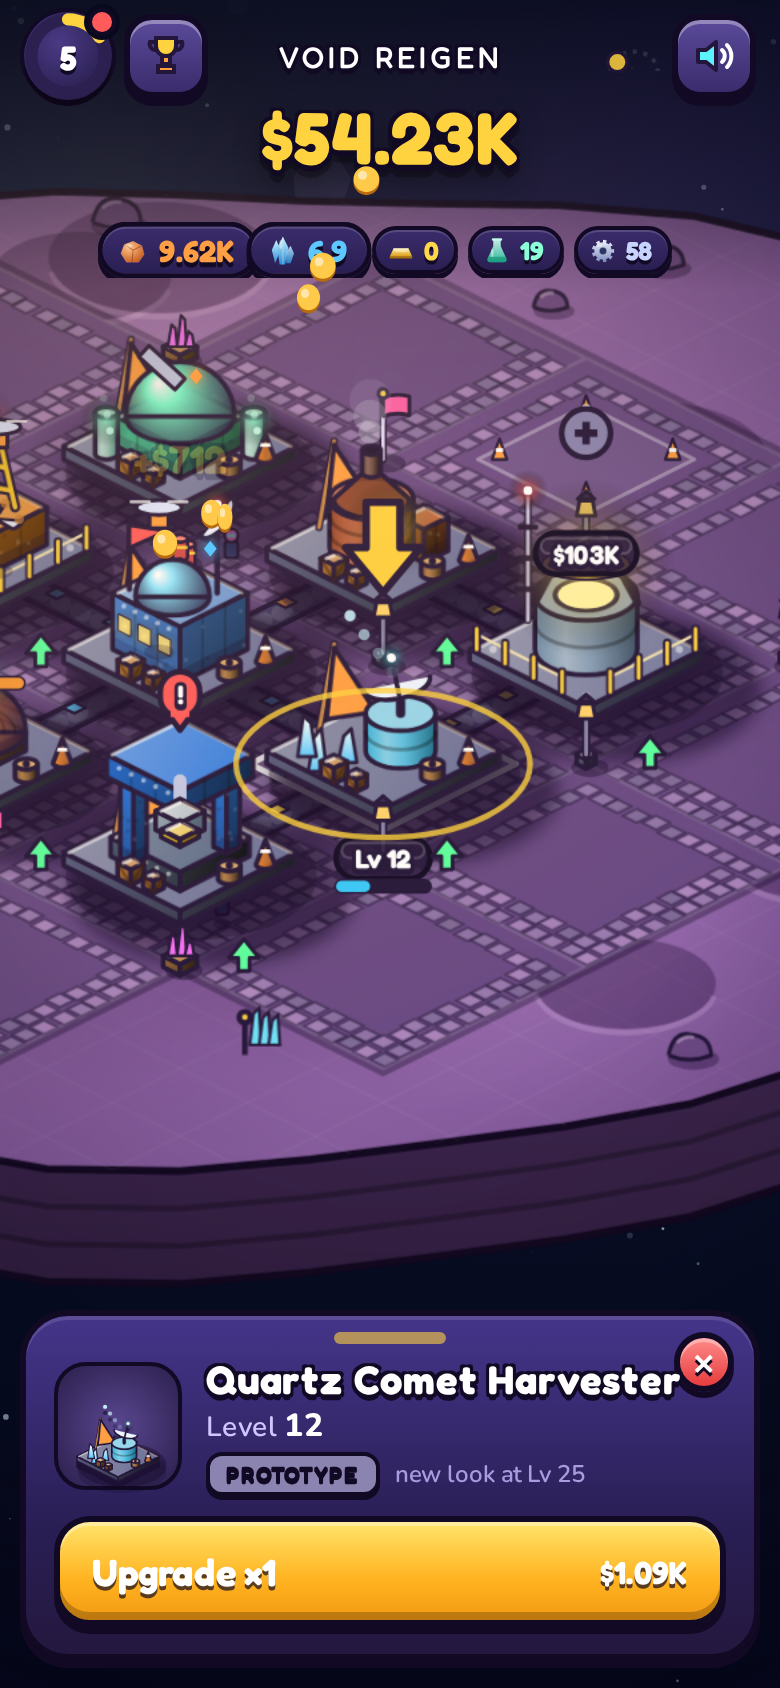
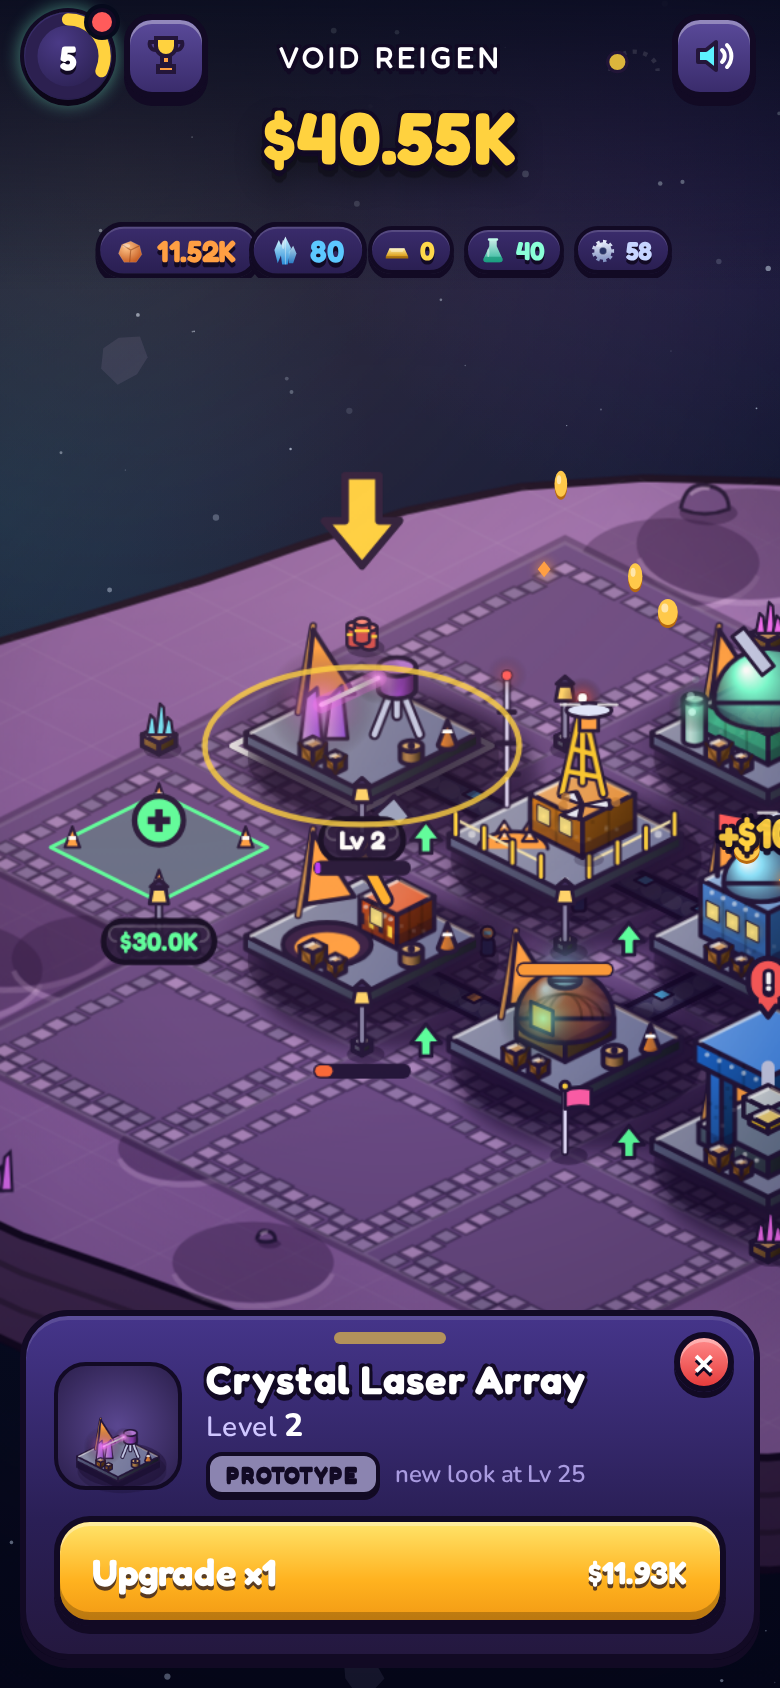
Pacing: actionable goals between Press Lv10 and $10M; goal-index migration v3

diff --git a/src/game/state.ts b/src/game/state.ts
@@ -34,7 +34,7 @@ export const fresh = (keep?: Partial<State>): State => ({
 export let S: State = fresh();
 export let clock = () => Date.now();
 export function setClock(f: () => number) { clock = f; }
-export function load() { try { const r = localStorage.getItem(KEY); if (r) { const o = JSON.parse(r); const f = fresh(); S = { ...f, ...o, res: { ...f.res, ...o.res }, made: { ...f.made, ...o.made }, fstock: { ...f.fstock, ...(o.fstock || {}) } }; if ((o.gv ?? 1) < 3) { const g = o.goal | 0; S.goal = g <= 13 ? g : g <= 16 ? g + 1 : g === 17 ? 20 : g <= 19 ? 21 : g === 20 ? 22 : g + 4; S.gv = 3; } if (!o.fstock && o.ships && Object.keys(o.ships).length) for (const r of FLEET_RES) { S.fstock[r] = S.res[r] * .5; S.res[r] *= .5; } if (!Array.isArray(S.skills)) S.skills = []; if (typeof S.xp !== 'number') S.xp = 0; while (S.mach.length < MACHINES.length) { S.mach.push(0); S.on.push(true); } while (S.w.length < MACHINES.length) S.w.push(50); while (S.mines.length < MINES.length) S.mines.push({ n: 0, p: 0, m: false, run: false }); } } catch { S = fresh(); } }
+export function load() { try { const r = localStorage.getItem(KEY); if (r) { const o = JSON.parse(r); const f = fresh(); S = { ...f, ...o, res: { ...f.res, ...o.res }, made: { ...f.made, ...o.made }, fstock: { ...f.fstock, ...(o.fstock || {}) } }; if ((o.gv ?? 1) < 3) { const g = o.goal | 0; S.goal = g <= 13 ? g : g <= 16 ? g + 1 : g === 17 ? 20 : g <= 19 ? 21 : g === 20 ? 22 : g + 6; S.gv = 3; } if (!o.fstock && o.ships && Object.keys(o.ships).length) for (const r of FLEET_RES) { S.fstock[r] = S.res[r] * .5; S.res[r] *= .5; } if (!Array.isArray(S.skills)) S.skills = []; if (typeof S.xp !== 'number') S.xp = 0; while (S.mach.length < MACHINES.length) { S.mach.push(0); S.on.push(true); } while (S.w.length < MACHINES.length) S.w.push(50); while (S.mines.length < MINES.length) S.mines.push({ n: 0, p: 0, m: false, run: false }); } } catch { S = fresh(); } }
 export function migrateSeen(raw: string | null) { if (!raw) return; try { const o = JSON.parse(raw); if (!o.seen && (o.life > 0 || o.warps)) { S.seen = ['intro', 'factory', 'power', 'lab', 'export', 'foreman', 'tiers']; if (fleetOpen()) S.seen.push('fleet'); if (warpOpen() || o.warps) S.seen.push('warp'); } } catch {} }
 export function save() { S.last = clock(); try { localStorage.setItem(KEY, JSON.stringify(S)); } catch {} }
 export function setS(n: State) { S = n; }

diff --git a/src/game/progress.ts b/src/game/progress.ts
@@ -29,6 +29,8 @@ export const GOALS: Goal[] = [
   { text: 'Earn $500K this sector', done: () => S.life >= 5e5, prog: () => [S.life, 5e5], reward: 6e4, tab: 'base', focus: '@hq' },
   { text: 'Build the Alloy Forge', done: () => mach('forge') >= 1, reward: 2e4, tab: 'base', focus: '@f3' },
   { text: 'Parts Press reaches Lv 10', done: () => mach('press') >= 10, prog: () => [mach('press'), 10], reward: 3e4, tab: 'base', focus: '@f2' },
+  { text: 'Iron Asteroid Rig reaches 30', done: () => mine(2) >= 30, prog: () => [mine(2), 30], reward: 6e4, tab: 'base', focus: '@m2' },
+  { text: 'Alloy Forge reaches Lv 5', done: () => mach('forge') >= 5, prog: () => [mach('forge'), 5], reward: 8e4, tab: 'base', focus: '@f3' },
   { text: 'Earn $10M this sector', done: () => S.life >= 1e7, prog: () => [S.life, 1e7], reward: 2e5, tab: 'base', focus: '@hq' },
   { text: 'Quartz Harvester reaches 50', done: () => mine(1) >= 50, prog: () => [mine(1), 50], reward: 1e5, tab: 'base', focus: '@m1' },
   { text: 'Build a Plasma Excavator', done: () => mine(4) >= 1, reward: 2e5, tab: 'base', focus: '@m4' },
